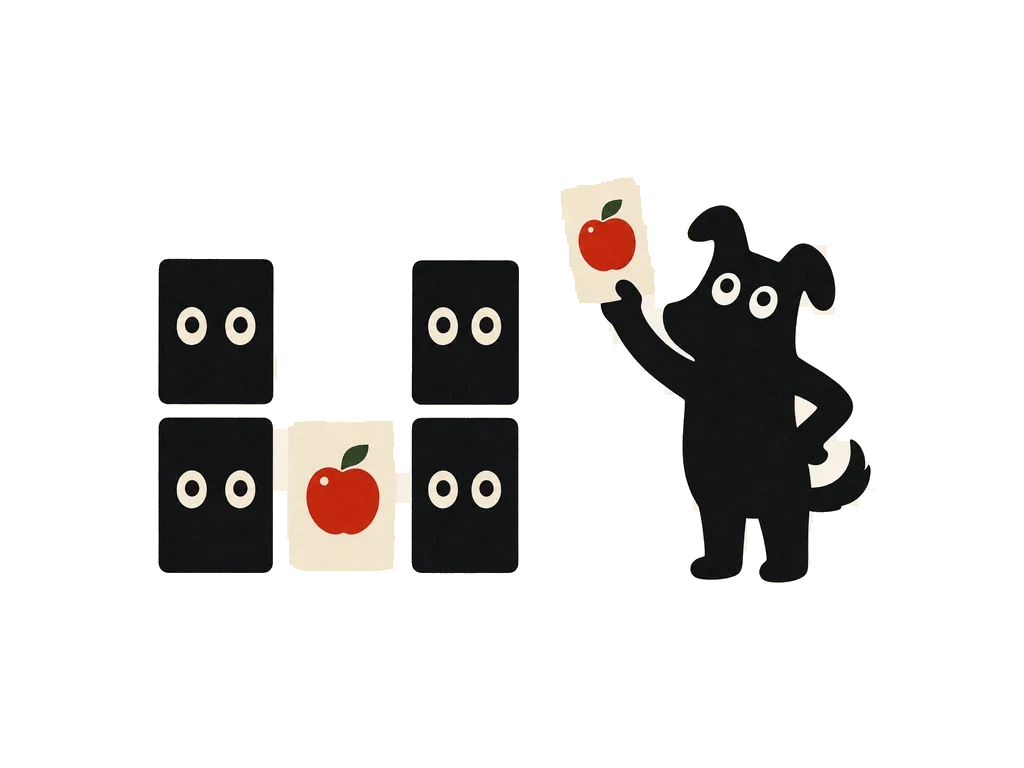
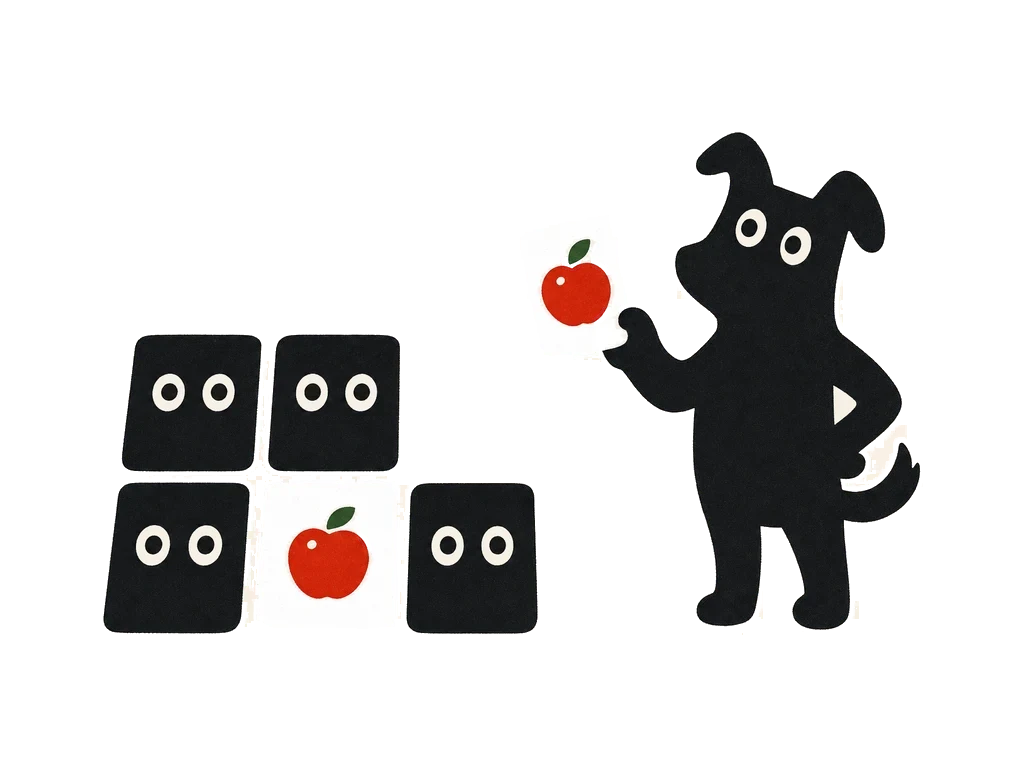
fix(covers): 去背毛邊——卡面改純白、窄縫殘留清掉、邊緣改半透明
毛邊有三個來源，逐個修：
- 翻開的卡片原本是米白色，跟紙底幾乎同色，只能靠印刷顆粒卡住 flood fill，
  邊緣才會爛成鋸齒。改成純白 #FFFFFF，跟紙底差得開。
- gen-memory-cover 的 BG_TOL 從 20 拉到 34，把生成圖的底色顆粒完全壓平，
  cutout 的 flood fill 才走得動。
- cutout-covers 多一輪清除：底色乾淨的圖先清掉封縫困住的純底色像素，
  再把貼著透明區的混色像素改成半透明並反預乘底色。分母取鄰域最大色距，
  黑卡片（差 ~700）與白卡片（差 ~50）才不會共用一個門檻。

底色帶方格紋的時鐘封面 fill_sum 大於門檻，整輪跳過，其餘十張封面輸出不變。

Claude-Session: https://claude.ai/code/session_01GuN3DyohRHvyktJEthNcbH

Changed region(s): [[0.0938, 0.1562, 0.9062, 0.8438]]

diff --git a/scripts/cutout-covers.py b/scripts/cutout-covers.py
@@ -11,6 +11,12 @@
 反鋸齒的邊緣像素比底色暗一點，嚴格門檻清不掉會留一圈米色光暈，
 所以「長回來」那步改用寬鬆門檻 EDGE_SUM，只在原本就接近底色的像素上長。
 
+3. 封縫會把物件之間的窄縫整條堵死，長回來只從兩側各長 5px，中間那條底色留在
+   圖上就是毛邊；剩下的混色像素全不透明，在深色背景上會鑲一圈淡邊。
+   → 底色乾淨的圖（fill_sum <= TIGHT_BG，gen-memory-cover.py 產的那批）多跑
+     一輪：清掉走得到的純底色像素，再把貼著透明區的那一圈改成半透明並反預乘。
+     底色本身就髒的圖（時鐘的方格紋）跳過這一輪，維持原本行為。
+
 用法：python3 scripts/cutout-covers.py
 """
 
@@ -25,6 +31,31 @@ DST = pathlib.Path("public/images/covers/cutout")
 EDGE_SUM = 60  # 清邊緣光暈時的寬鬆門檻
 RING = 8       # 最外圈這幾 px 一定是背景，用來量底色自己的抖動幅度
 SEAL = 9       # 封縫用的膨脹核（奇數）；擋得住寬度 < SEAL-1 px 的縫
+TIGHT_BG = 4   # fill_sum 低於這個值才算「底色乾淨」，才跑第二次不封縫的清除
+HALO = 7       # 削反鋸齒環的膨脹核（奇數），每輪各長 3px
+
+
+def flood_from_border(passable: np.ndarray) -> np.ndarray:
+    """從畫布四邊往內填，回傳所有從外面走得到的像素。"""
+    h, w = passable.shape
+    seen = np.zeros((h, w), dtype=bool)
+    q = deque()
+    for y, x in (
+        [(0, x) for x in range(w)]
+        + [(h - 1, x) for x in range(w)]
+        + [(y, 0) for y in range(h)]
+        + [(y, w - 1) for y in range(h)]
+    ):
+        if passable[y, x] and not seen[y, x]:
+            seen[y, x] = True
+            q.append((y, x))
+    while q:
+        y, x = q.popleft()
+        for ny, nx in ((y + 1, x), (y - 1, x), (y, x + 1), (y, x - 1)):
+            if 0 <= ny < h and 0 <= nx < w and passable[ny, nx] and not seen[ny, nx]:
+                seen[ny, nx] = True
+                q.append((ny, nx))
+    return seen
 
 
 def dilate(mask: np.ndarray, size: int) -> np.ndarray:
@@ -55,26 +86,40 @@ def cutout(path: pathlib.Path) -> Image.Image:
     # 雜訊也會被膨脹成一片障礙，開闊的背景反而填不動。
     passable = (dev <= fill_sum) & ~dilate(dev > EDGE_SUM, SEAL)
 
-    outside = np.zeros((h, w), dtype=bool)
-    q = deque()
-    for y, x in (
-        [(0, x) for x in range(w)]
-        + [(h - 1, x) for x in range(w)]
-        + [(y, 0) for y in range(h)]
-        + [(y, w - 1) for y in range(h)]
-    ):
-        if passable[y, x] and not outside[y, x]:
-            outside[y, x] = True
-            q.append((y, x))
-    while q:
-        y, x = q.popleft()
-        for ny, nx in ((y + 1, x), (y - 1, x), (y, x + 1), (y, x - 1)):
-            if 0 <= ny < h and 0 <= nx < w and passable[ny, nx] and not outside[ny, nx]:
-                outside[ny, nx] = True
-                q.append((ny, nx))
+    outside = flood_from_border(passable)
 
     out = np.asarray(im).copy()
     out[dilate(outside, SEAL + 2) & (dev <= EDGE_SUM), 3] = 0
+
+    # 封縫會把物件之間的窄縫整條堵死，長回來那步只從兩側各長 5px，中間那條底色
+    # 就留在圖上變成毛邊。底色夠乾淨時再補一輪：用寬鬆門檻走位（才跨得過物件邊緣
+    # 的反鋸齒環），但只清掉「顏色就是底色」的像素。時鐘錶面、大富翁骰子跟底色差
+    # 6~18，走得到也不會被清掉；底色本身就髒的圖 fill_sum 大於 TIGHT_BG，直接跳過。
+    if fill_sum <= TIGHT_BG:
+        out[flood_from_border(dev <= EDGE_SUM) & (dev <= fill_sum), 3] = 0
+        # 清完窄縫後，縫裡剩下的是物件邊緣的反鋸齒環（底色與墨色的混色）。
+        # 只削「同時貼著已透明區、又貼著真正物件邊」的那一圈，白卡片內部離透明區
+        # 很遠，不會被咬到。
+        for _ in range(2):
+            edge = dilate(dev > EDGE_SUM, HALO)
+            out[dilate(out[:, :, 3] == 0, HALO) & edge & (dev <= EDGE_SUM), 3] = 0
+
+        # 剩下的是墨色與底色的混色像素：全不透明就會在深色背景上鑲一圈淡邊。
+        # 貼著透明區的那一小圈改成半透明，並反預乘把底色抽掉，邊緣才乾淨。
+        # 參考色距取鄰域最大值，而不是固定門檻：黑卡片跟底色差 ~700、白卡片只差
+        # ~50，用同一個分母會把白卡片整圈判成半透明。
+        # MaxFilter 只吃 8-bit，色距先壓到 0~255 再放大回來
+        ref = np.asarray(
+            Image.fromarray((np.clip(dev, 0, 765) // 3).astype(np.uint8), "L").filter(ImageFilter.MaxFilter(HALO))
+        ).astype(np.float64) * 3
+        band = dilate(out[:, :, 3] == 0, HALO) & (out[:, :, 3] > 0) & (dev < ref)
+        if band.any():
+            alpha = np.clip(dev[band] / np.maximum(ref[band], 1.0), 0.0, 1.0)
+            rgb = out[band, :3].astype(np.float64)
+            # P = a*C + (1-a)*bg → C = (P - (1-a)*bg) / a
+            safe = np.maximum(alpha, 0.05)[:, None]
+            out[band, :3] = np.clip((rgb - (1 - safe) * bg) / safe, 0, 255)
+            out[band, 3] = (alpha * 255).astype(np.uint8)
     return Image.fromarray(out, "RGBA")
 
 

diff --git a/scripts/gen-memory-cover.py b/scripts/gen-memory-cover.py
@@ -19,7 +19,7 @@ from PIL import Image
 BG = (247, 240, 229)
 SIZE = (1024, 768)
 MARGIN = 0.10
-BG_TOL = 20  # 生成圖底色抖動 <1/通道，翻開的米白卡牌距離 >30，取中間
+BG_TOL = 34  # 生成圖底色帶印刷顆粒（色距最高 ~23），全部壓平成 BG，cutout 的 flood fill 才走得動
 OUT = pathlib.Path("public/images/covers/warm/memory.webp")
 REF = pathlib.Path("public/images/mascot/barkley.webp")  # 姿勢中性的參考圖，拿別張封面會把姿勢一起抄過來
 
@@ -27,7 +27,7 @@ PROMPT = """Draw this scene in EXACTLY the same illustration style as the attach
 
 THE ONE STYLE RULE: every object is ONE SOLID FLAT SHAPE with details KNOCKED OUT of it in cream. No outlines, no strokes, no gradients, no shadows, no 3D, no highlights. Chunky, slightly hand-drawn edges. Subtle print grain on every filled shape.
 
-COLORS, flat, exactly these: cream #F8F0E3 · black #0D0D0D · red #CB2108 · green #2C5427 · gold #F8B003 · blue #02569B.
+COLORS, flat, exactly these: cream #F8F0E3 (the paper only) · white #FFFFFF (face-up card faces only) · black #0D0D0D · red #CB2108 · green #2C5427 · gold #F8B003 · blue #02569B.
 Barkley's black and the card backs' black are the SAME #0D0D0D.
 
 SCENE — a memory card matching game:
@@ -37,7 +37,7 @@ held card came from shows nothing but bare cream paper. There is NO card behind 
 held card — plain cream paper is visible through that gap.
 Of the five cards still lying in the grid, four are FACE DOWN and one is FACE UP.
 The FACE DOWN cards: each is one solid black #0D0D0D rounded rectangle with two big cream eyes knocked out of it (two cream ovals, each with a black round pupil sitting DEAD CENTRE in the oval, so the card looks STRAIGHT AT THE VIEWER — not glancing up or sideways), like Barkley's own eyes; the card back is a little Barkley face.
-The FACE UP cards — the one lying in the grid and the one Barkley holds — are each a cream #F8F0E3 rounded rectangle showing ONE solid red #CB2108 apple (a chunky round apple shape with a small solid green #2C5427 leaf, a tiny cream highlight dot knocked out is allowed). The two apples are identical: he has just found the matching pair.
+The FACE UP cards — the one lying in the grid and the one Barkley holds — are each a PURE WHITE #FFFFFF rounded rectangle — clearly whiter than the cream paper, the only white in the picture — showing ONE solid red #CB2108 apple (a chunky round apple shape with a small solid green #2C5427 leaf, a tiny cream highlight dot knocked out is allowed). The two apples are identical: he has just found the matching pair.
 Barkley STANDS UPRIGHT on his hind legs at the right side, using his front paws as hands: his right paw holds up the lifted apple card clear of the table; his left paw is planted ON HIS HIP, elbow bent out to the side, so a clear triangle of cream paper shows between that arm and his torso. No paw is raised above his shoulder. Pure black silhouette with two cream eyes, fully inside the frame, not cropped. Keep a clear gap between his arms and torso; his paws must read clearly on top of the cream card.
 
 CANVAS: landscape, cream #F8F0E3 background edge to edge, generous empty paper around everything. NO TEXT anywhere."""
